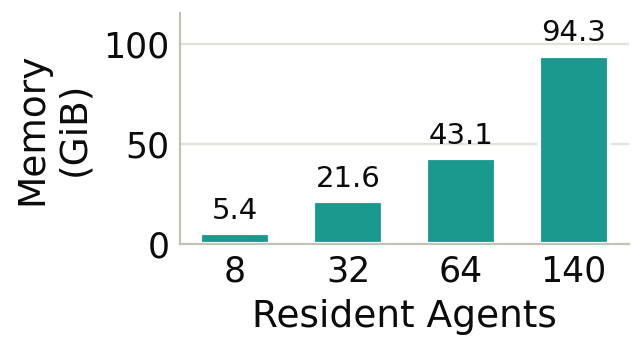
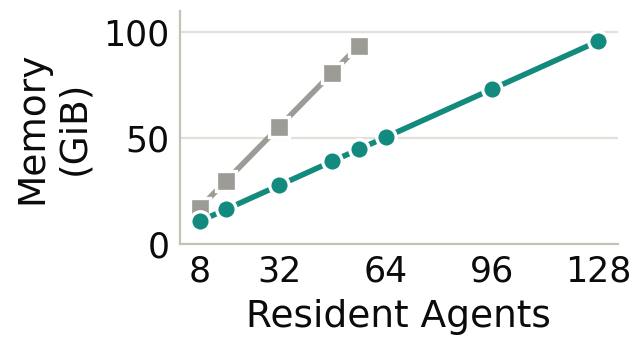
Figure 15 from run 124 (model file on 2 MiB pages, Copy to 56 agents); the resident figure takes its result directory

diff --git a/figures/make_paper_figures_1020.py b/figures/make_paper_figures_1020.py
@@ -160,8 +160,9 @@ def tree_e2():
 
 
 # -------------------------------------------------------------- resident
-def resident_117():
-    D = RES + "/20261020-e3-resident-formal-v1"
+def resident_117(D=RES + "/20261020-e3-resident-formal-v1"):
+    # 124 (20261021-e3-resident-tmpfs-v1) repeats this sweep with the model file on the
+    # memory file system of STATOR and Copy up to its own limit of 56 agents
     cases = json.load(open(D + "/cases.json"))
     agg = defaultdict(lambda: defaultdict(list))
     for c in cases:
@@ -205,7 +206,7 @@ def resident_117():
     # token, over the eight active agents of every repetition: median and 95th percentile
     fig, ax = panel()
     top = 0
-    # STATOR first, so that Copy, which ends at 48 agents, stays visible on top of it
+    # STATOR first, so that Copy, which ends at fewer agents, stays visible on top of it
     for lab, col, m, mk in reversed(modes):
         pts = sorted((n, resume[(mm, n)]) for (mm, n) in resume if mm == m)
         for index, style_ in ((0, "-"), (1, (0, (3, 2)))):
@@ -336,7 +337,7 @@ if __name__ == "__main__":
     print("ablation speed", ablation_speed())
     sota_e1()
     tree_e2()
-    print("resident", resident_117()[1])
+    print("resident", resident_117(*filter(None, [os.environ.get("RESIDENT_RESULT")]))[1])
     print("proc8", proc8_bars())
     s = dynamic_e4b()
     for k in sorted(s):
